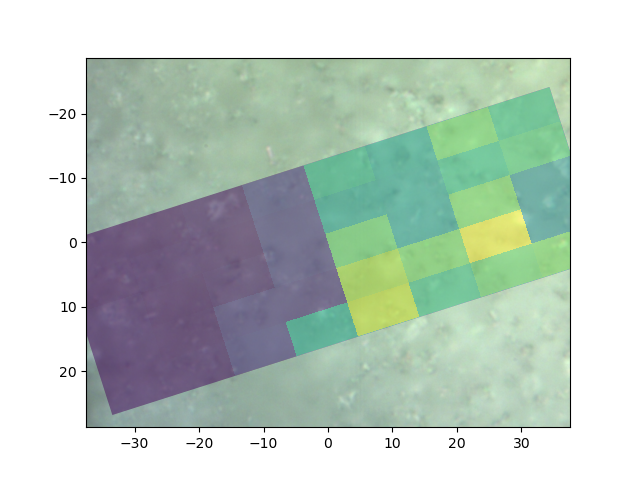
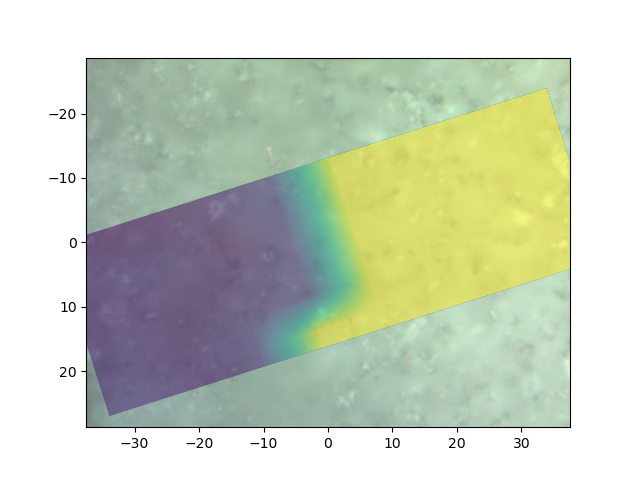
Fixed rotation issues and example
The example now shows to translate to the origin prior to rotation.

Changed region(s): [[0.4062, 0.1875, 0.9062, 0.75], [0.1562, 0.8125, 0.1875, 0.875], [0.125, 0.7188, 0.1562, 0.7812]]

diff --git a/src/horiba_raman_ccoverstreet/mapping.py b/src/horiba_raman_ccoverstreet/mapping.py
@@ -7,7 +7,7 @@ from PIL import Image
 @dataclass
 class RamanImage:
     img: Image # PIL Image used for matplotlib imshow
-    extent: list # extent for matplotlib imshow
+    extent: np.array # extent for matplotlib imshow
 
 def parse_image_txt(filename):
     """Parses the gray-scale image saved in .txt format as saved from the "Video" tab in LabSpec6
@@ -67,7 +67,7 @@ def parse_image_comb(bmp_filename, txt_filename):
     
     img = Image.open(bmp_filename)
 
-    return RamanImage(img, extent)
+    return RamanImage(img, np.array(extent))
 
 @dataclass
 class RamanMapData:
@@ -78,7 +78,7 @@ class RamanMapData:
     dim: np.array # (rows,columns) of map dimension
     center: np.array # (x,y) of center of map
     rotation: float # rotation in degrees
-    extent: list # extents used for matplotlib imshow
+    extent: np.array # extents used for matplotlib imshow
 
 
 def parse_l6m_txt(filename):
@@ -121,6 +121,8 @@ def parse_l6m_txt(filename):
             start_x = pos[0][0]
             start_y = pos[0][1]
 
+        pos = np.array(pos)
+
         dim = determine_dim_from_pos(pos)
 
         start_pos = np.array([start_x, start_y])
@@ -129,16 +131,12 @@ def parse_l6m_txt(filename):
         start_pos_off = start_pos - center
         grid_pos_off = pos[0] - center
 
-        print(pos)
-        print(start_pos)
 
         dot = np.dot(start_pos_off, grid_pos_off)
         theta = np.arccos(dot / (np.linalg.norm(start_pos_off) * np.linalg.norm(grid_pos_off)))
-        print(theta, np.degrees(theta))
 
         dx = np.abs(pos[0][0] - pos[1][0])
         dy = np.abs(pos[0][1] - pos[dim[1]][1])
-        print(dx, dy)
 
         left = pos[0][0] - dx /  2
         right = pos[-1][0] + dx / 2
@@ -147,7 +145,7 @@ def parse_l6m_txt(filename):
 
 
 
-        return RamanMapData(shift, pos, counts, dim, center, np.degrees(theta), (left, right, bottom, top))
+        return RamanMapData(shift, pos, counts, dim, center, np.degrees(theta), np.array((left, right, bottom, top)))
 
 
 def determine_dim_from_pos(pos):
@@ -166,14 +164,11 @@ def determine_dim_from_pos(pos):
     n_cols = 0
     cur_y = pos[0][1]
     for p in pos:
-        print(p)
         if p[1] != cur_y:
             break
 
         n_cols += 1
 
-    print(len(pos))
-    print(n_cols)
     return np.array([len(pos) // n_cols, n_cols])
 
 def extract_maxes_from_range(shift, counts, shift_min, shift_max, normalize=False):

diff --git a/src/rotated_rect_map/rotated.py b/src/rotated_rect_map/rotated.py
@@ -12,11 +12,12 @@ maxes = np.reshape(mapping.extract_maxes_from_range(raman_map.shift, raman_map.c
                                          normalize=True), raman_map.dim)
 
 
-# Use negative rotation since imshow rotate is flipped
-rotation = transforms.Affine2D().rotate_deg(-raman_map.rotation)
+# Move map to center and then rotate
+# Use negative rotation since imshow rotate is stage was flipped in this measurement
+rotation = transforms.Affine2D().translate(*-raman_map.center).rotate_deg(-raman_map.rotation).translate(*raman_map.center)
 plt.imshow(raman_img.img, extent=raman_img.extent)
 plt.imshow(maxes, extent=raman_map.extent, transform=rotation+plt.gca().transData,
-           interpolation="none", alpha=0.5)
+           interpolation="bilinear", alpha=0.5)
 plt.xlim(raman_img.extent[0], raman_img.extent[1])
 plt.ylim(raman_img.extent[2], raman_img.extent[3])
 plt.savefig("rotated.png")
